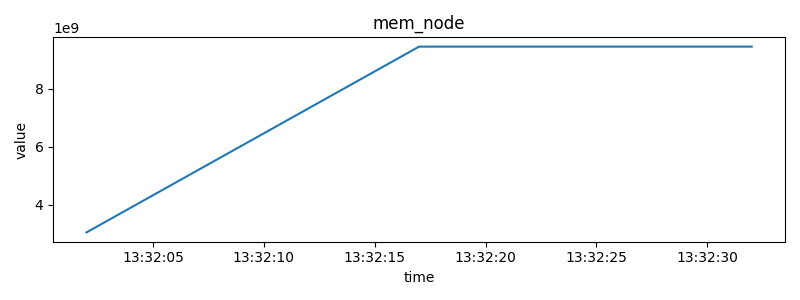
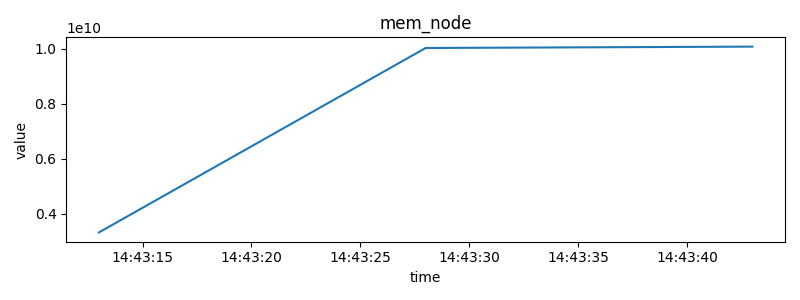
Modified REAME.md with sample output

diff --git a/README.md b/README.md
@@ -97,10 +97,14 @@ Example summary (from `metrics_summary.json`):
 
 ```json
 {
-  "cpu_foo": { "avg": 0.000111, "p90": 0.000000, "p95": 0.000000 },
-  "cpu_bar": { "avg": 0.000244, "p90": 0.000143, "p95": 0.000143 },
-  "mem_foo": { "avg": 2162688.0, "p90": 1015808.0, "p95": 1015808.0 },
-  "mem_bar": { "avg": 2271914.66, "p90": 1019904.0, "p95": 1019904.0 }
+   "summary": 
+      [
+         {"metric": "cpu_foo", "avg": 0.00013752621477202767, "p90": 0.0, "p95": 0.0}, 
+         {"metric": "cpu_bar", "avg": 0.0001429976914409751, "p90": 0.00020460788598805475, "p95": 0.00020460788598805475}, 
+         {"metric": "mem_foo", "avg": 2427107.5555555555, "p90": 1018538.6666666666, "p95": 1018538.6666666666}, 
+         {"metric": "mem_bar", "avg": 2461696.0, "p90": 1040384.0, "p95": 1040384.0}, 
+         {"metric": "mem_node", "avg": 7805156010.666667, "p90": 10068443136.0, "p95": 10068443136.0}
+      ]
 }
 ```
 
@@ -111,7 +115,7 @@ You should see the below in the artifact under metrics directory.
 
 ---
 
-### CPU foo
+### CPU bar
 ![CPU bar](./example_metrics_outputs/cpu_bar.png)
 
 ---
